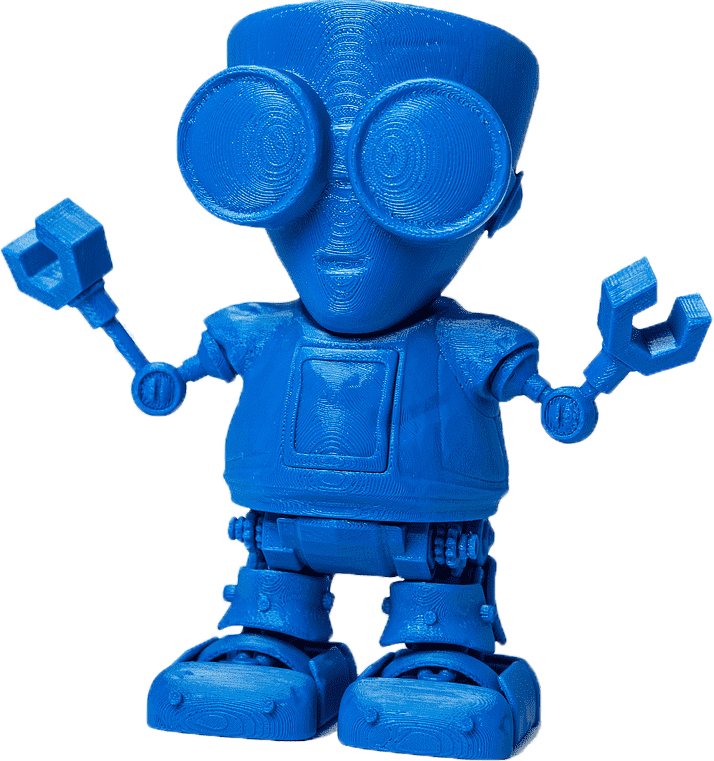
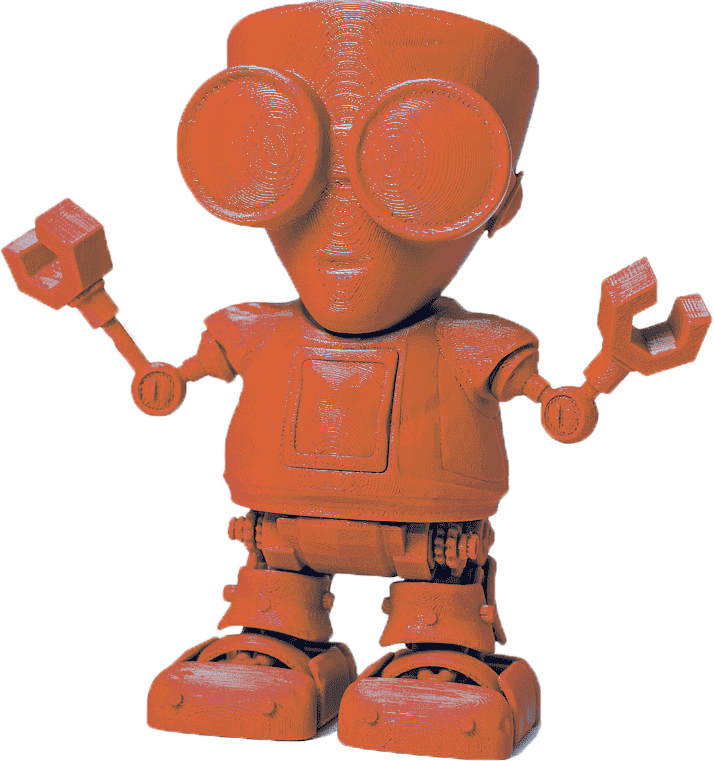
Changed robot height and color

diff --git a/resources/js/lax.js b/resources/js/lax.js
@@ -15,7 +15,7 @@ window.addEventListener("DOMContentLoaded", () => {
         scrollY: {
             "max-height": [
                 ["index", 300],
-                [0, 119],
+                [0, 154],
                 {
                     cssUnit: "px",
                     cssFn: (val) => `${val}px`,

diff --git a/resources/views/pages/home.blade.php b/resources/views/pages/home.blade.php
@@ -20,9 +20,9 @@
                         </div>
                     </div>
 
-                    <div class="absolute -translate-x-4 -translate-y-32">
+                    <div class="absolute -translate-y-32">
                         <img src="{{ asset('images/robot.png') }}" alt=""
-                            class="lax-robot w-28 overflow-hidden object-cover object-bottom">
+                            class="lax-robot w-36 overflow-hidden object-cover object-bottom">
                     </div>
                 </div>
             </div>
